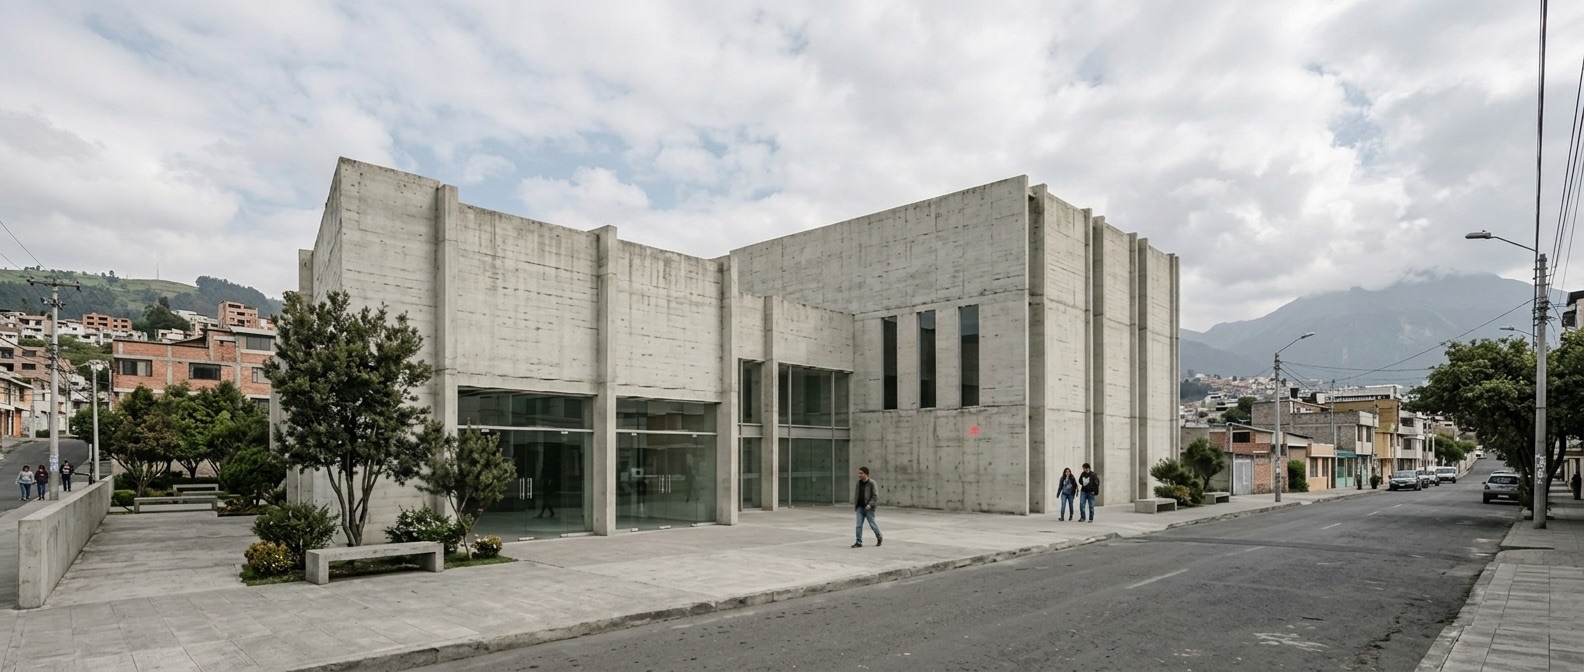
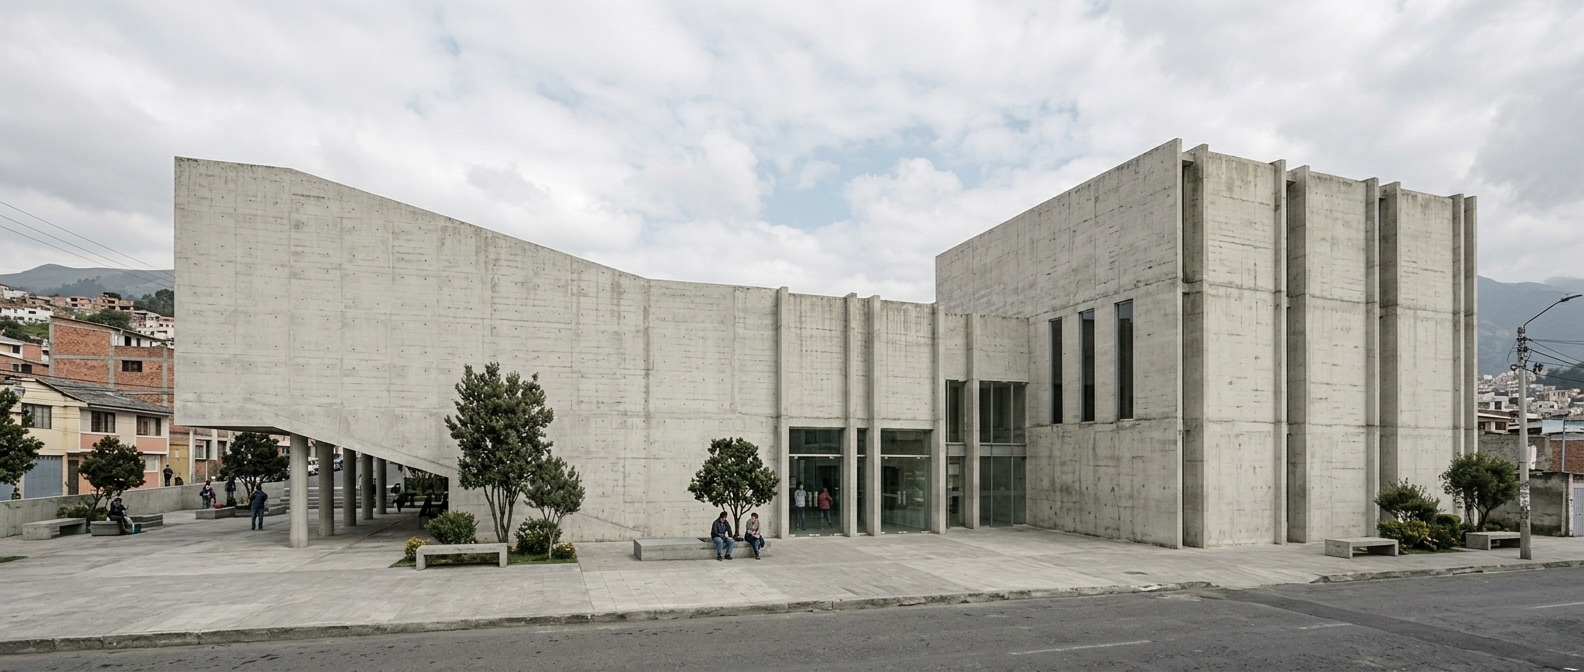
Inicio: franja del Centro Comunitario con el auditorio completo

diff --git a/src/App.jsx b/src/App.jsx
@@ -42,7 +42,7 @@ const franjas = [
   { slug: 'mundaneum-beirut', src: '/img/disenos/mundaneum-beirut-franja.jpg', pos: '50% 40%' },
   { slug: 'galeria-talleres', src: '/img/disenos/galeria-talleres-inicio.jpg', pos: '50% 45%' },
   { slug: 'edificio-nexo', src: '/img/disenos/edificio-nexo-franja.jpg', pos: '50% 55%' },
-  { slug: 'centro-comunitario', src: '/img/disenos/centro-comunitario-franja.jpg', pos: '50% 55%' },
+  { slug: 'centro-comunitario', src: '/img/disenos/centro-comunitario-franja.jpg', pos: '35% 45%' },
 ]
 
 function useRuta() {

diff --git a/CLAUDE.md b/CLAUDE.md
@@ -173,7 +173,7 @@ Los resúmenes de cada proyecto académico se escribieron a partir del texto de 
 
 ## Bitácora
 
-**2026-11-19 — sesión 9** (disco externo no conectado; CLAUDE.md sin copiar al disco: copiarlo en la próxima sesión con disco). **Cómo hacer imágenes con IA (aprendido)**: Higgsfield no se pudo usar (Joaquín no quiso iniciar sesión); Claude no tiene navegador en esta Mac; la API de Gemini no genera imágenes sin facturación y Joaquín no quiere pagar → **flujo que funciona**: Claude prepara en `~/Desktop/renders-portadas/` las imágenes de partida y `PROMPTS.txt`; Joaquín genera en gemini.google.com (gratis) y guarda ahí los resultados; Claude revisa contra el original, recorta y publica. Para franjas del inicio pedir versiones **anchas 21:9** (si no, el 4:3 se ve con mucho zoom). Joaquín guardó su clave en un Word `api key.docx`: se movió fuera del repo a `~/Desktop/` (recomendado borrarlo); **nunca dejar archivos con claves en la carpeta del repo (es público)**. **Portadas realistas de Diseños** (solo en la grilla de `#/disenos`): Joaquín las hizo él mismo en gemini.google.com (gratis) con las instrucciones de `~/Desktop/renders-portadas/PROMPTS.txt` a partir de `mundaneum-beirut/01.jpg`, `disenos/edificio-nexo.jpg` y `centro-comunitario/02.jpg` (vista del ingreso; antes la portada era la axonometría). Webp de 1024×765 → `public/img/disenos/<slug>-render.jpg` 1020×765; después Joaquín pidió verlas también en el **inicio**: como las franjas (4:1) recortaban demasiado los renders 4:3, Joaquín pidió a Gemini versiones **anchas** (21:9, 1584×672: `~/Desktop/renders-portadas/<nombre> portada.jpeg`) → `public/img/disenos/<slug>-franja.jpg`, `pos` 50% 55% las tres; después Joaquín pidió cambiar la de Mundaneum por `Mundaneum.jpeg` (la versión 4:3 de 1200×896, sin recortar; `pos` 50% 40%): en computadora se ve más de cerca que las otras dos. Las portadas de la grilla (`-render.jpg`) se reemplazaron por las versiones de 1200×896 (`Mundaneum.jpeg`, `nexo.jpeg`, `centro comunitario.jpeg`), recortadas a 1194×896. Las galerías no cambian. Galería-Talleres conserva la maqueta. La API de Gemini (clave en `~/.gemini-key`, fuera del repo) no sirve sin facturación: los modelos de imagen tienen límite 0 en el plan gratuito; Joaquín prefirió no pagar. La IA cambió algunos detalles (Nexo: bordes de losa blancos en vez de negros; Centro Comunitario: vidrio en vez de las puertas grises; Mundaneum: remate superior cerrado). **Biblioteca (T6) y Facultad de Arquitectura (T5) quitadas del portafolio** a pedido de Joaquín: datos, franjas del inicio e imágenes (`public/img/biblioteca`, `public/img/facultad-arquitectura`, portadas y franja de la Facultad) borrados; se pueden recuperar del historial de git (commit anterior a "Quitar Biblioteca y Facultad"). Diseños quedan 4: Mundaneum, Galería-Talleres, Edificio Nexo, Centro Comunitario. Lo que se dice de ambos más arriba queda solo como referencia.
+**2026-11-19 — sesión 9** (disco externo no conectado; CLAUDE.md sin copiar al disco: copiarlo en la próxima sesión con disco). **Cómo hacer imágenes con IA (aprendido)**: Higgsfield no se pudo usar (Joaquín no quiso iniciar sesión); Claude no tiene navegador en esta Mac; la API de Gemini no genera imágenes sin facturación y Joaquín no quiere pagar → **flujo que funciona**: Claude prepara en `~/Desktop/renders-portadas/` las imágenes de partida y `PROMPTS.txt`; Joaquín genera en gemini.google.com (gratis) y guarda ahí los resultados; Claude revisa contra el original, recorta y publica. Para franjas del inicio pedir versiones **anchas 21:9** (si no, el 4:3 se ve con mucho zoom). Joaquín guardó su clave en un Word `api key.docx`: se movió fuera del repo a `~/Desktop/` (recomendado borrarlo); **nunca dejar archivos con claves en la carpeta del repo (es público)**. **Portadas realistas de Diseños** (solo en la grilla de `#/disenos`): Joaquín las hizo él mismo en gemini.google.com (gratis) con las instrucciones de `~/Desktop/renders-portadas/PROMPTS.txt` a partir de `mundaneum-beirut/01.jpg`, `disenos/edificio-nexo.jpg` y `centro-comunitario/02.jpg` (vista del ingreso; antes la portada era la axonometría). Webp de 1024×765 → `public/img/disenos/<slug>-render.jpg` 1020×765; después Joaquín pidió verlas también en el **inicio**: como las franjas (4:1) recortaban demasiado los renders 4:3, Joaquín pidió a Gemini versiones **anchas** (21:9, 1584×672: `~/Desktop/renders-portadas/<nombre> portada.jpeg`) → `public/img/disenos/<slug>-franja.jpg`, `pos` 50% 55% las tres; después Joaquín pidió cambiar la de Mundaneum por `Mundaneum.jpeg` (la versión 4:3 de 1200×896, sin recortar; `pos` 50% 40%): en computadora se ve más de cerca que las otras dos. Las portadas de la grilla (`-render.jpg`) se reemplazaron por las versiones de 1200×896 (`Mundaneum.jpeg`, `nexo.jpeg`, `centro comunitario.jpeg`), recortadas a 1194×896. Las galerías no cambian. Galería-Talleres conserva la maqueta. La API de Gemini (clave en `~/.gemini-key`, fuera del repo) no sirve sin facturación: los modelos de imagen tienen límite 0 en el plan gratuito; Joaquín prefirió no pagar. La IA cambió algunos detalles (Nexo: bordes de losa blancos en vez de negros; Centro Comunitario: vidrio en vez de las puertas grises; Mundaneum: remate superior cerrado). **Franja del Centro Comunitario rehecha** (pedido de Joaquín: la anterior cortaba el auditorio, que es el volumen elevado sobre columnas a la izquierda, con cubierta inclinada): Gemini generó la vista completa desde la González Suárez a partir de `centro-comunitario/01.jpg` + la franja anterior (prompt 4 de `PROMPTS.txt`) → `~/Desktop/renders-portadas/6-centro-comunitario-gemini-auditorio.jpeg` (1584×672) → `disenos/centro-comunitario-franja.jpg`, `pos` 35% 45%. El prompt 5 (zoom con el ángulo de la foto 3) queda disponible, sin usar. **Biblioteca (T6) y Facultad de Arquitectura (T5) quitadas del portafolio** a pedido de Joaquín: datos, franjas del inicio e imágenes (`public/img/biblioteca`, `public/img/facultad-arquitectura`, portadas y franja de la Facultad) borrados; se pueden recuperar del historial de git (commit anterior a "Quitar Biblioteca y Facultad"). Diseños quedan 4: Mundaneum, Galería-Talleres, Edificio Nexo, Centro Comunitario. Lo que se dice de ambos más arriba queda solo como referencia.
 
 **2026-11-18 — sesión 8** (disco externo no conectado): Casa LT, fotos 05–08 marcadas como obra y celosías metálicas; página de Contacto rehecha minimalista y sin scroll (la versión grande con líneas no le gustó). Sobre mí: orden del software cambiado (Office, Illustrator, Photoshop). CLAUDE.md no se pudo copiar al disco externo (no conectado): copiarlo en la próxima sesión con disco. Joaquín decidió: dejar las axonometrías de Nexo, las portadas de Diseños y Mundaneum como están (pendientes 1–3 cerrados).
 
